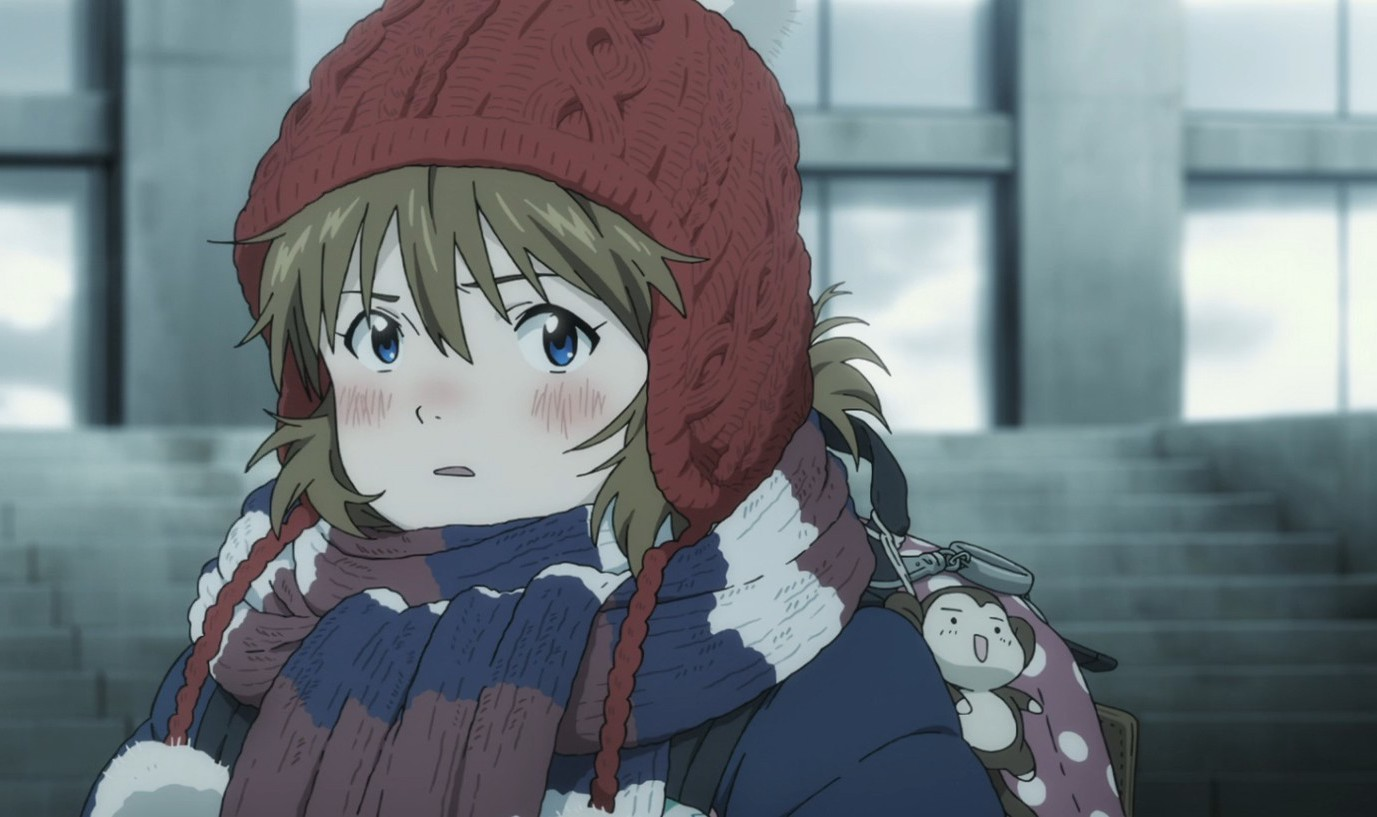
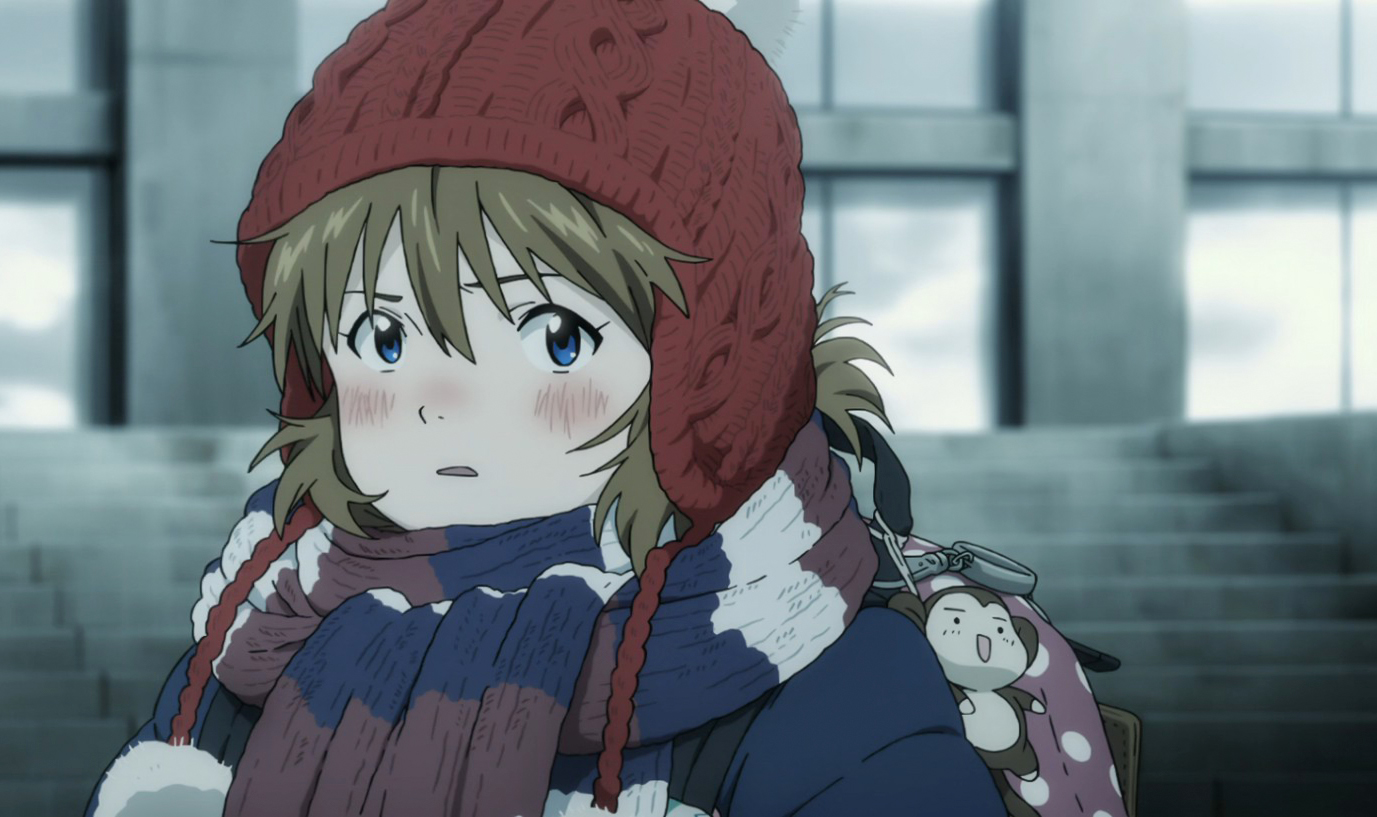
kiss 选项

diff --git a/html/louvre.js b/html/louvre.js
@@ -291,79 +291,83 @@ const louvre = (img, config, callback) => {
 			pixelData[i+3 ] = 255
 		}
 	}
-	const hStart = 30;
-	const hEnd = -184;
 
-	const be = bezier(0.57, 0.01, 0.43, 0.99);
-	const s = config.s/100;
+	if(config.kuma){
 
-
-	const gradient = ctx.createLinearGradient(0,0, _width,_height);
-
-	// Add three color stops
-	gradient.addColorStop(0, '#fbba30');
-	gradient.addColorStop(0.4, '#fc7235');
-	gradient.addColorStop(.6, '#fc354e');
-	gradient.addColorStop(0.7, '#cf36df');
-	gradient.addColorStop(.8, '#37b5d9');
-	gradient.addColorStop(1, '#3eb6da');
-
-	// Set the fill style and draw a rectangle
-	ctx.fillStyle = gradient;
-	ctx.fillRect(0, 0, _width, _height);
-	let gradientPixel = ctx.getImageData(0, 0, _width, _height);
+		const hStart = 30;
+		const hEnd = -184;
 	
-	for (let i = 0; i < pixelData.length; i += 4) {
-		let y = pixelData[i];
-		let p = Math.floor(i / 4);
-
-		let _h = Math.floor(p/_width);
-		let _w = p % _width;
-
-		/*
+		const be = bezier(0.57, 0.01, 0.43, 0.99);
+		const s = config.s/100;
+	
+	
+		const gradient = ctx.createLinearGradient(0,0, _width,_height);
+	
+		// Add three color stops
+		gradient.addColorStop(0, '#fbba30');
+		gradient.addColorStop(0.4, '#fc7235');
+		gradient.addColorStop(.6, '#fc354e');
+		gradient.addColorStop(0.7, '#cf36df');
+		gradient.addColorStop(.8, '#37b5d9');
+		gradient.addColorStop(1, '#3eb6da');
+	
+		// Set the fill style and draw a rectangle
+		ctx.fillStyle = gradient;
+		ctx.fillRect(0, 0, _width, _height);
+		let gradientPixel = ctx.getImageData(0, 0, _width, _height);
 		
-		// const 
-		// hScale = hScale * hScale;
-
-		let hScale = (_h + _w)/(_width + _height);
-
-		hScale = hScale * hScale;
-		hScale = be(hScale);
-
-		// let h = Math.floor((hStart + (hScale) * (hEnd - hStart)));
-		let [h] = rgb2hsl([
-			gradientPixel.data[i + 0],
-			gradientPixel.data[i + 1],
-			gradientPixel.data[i + 2],
-		]);
-		const l = y/255;
-		const rgb = hsl2rgb([h, s, l * (1 - config.l/100) + (config.l/100)]);
-
-		if(i%5677===0){
-			// console.log(h,y,l,l * (config.l/100) + (1 - config.l/100))
-			// console.log((_h + _w)/(_width + _height),hScale)
+		for (let i = 0; i < pixelData.length; i += 4) {
+			let y = pixelData[i];
+			let p = Math.floor(i / 4);
+	
+			let _h = Math.floor(p/_width);
+			let _w = p % _width;
+	
+			/*
+			
+			// const 
+			// hScale = hScale * hScale;
+	
+			let hScale = (_h + _w)/(_width + _height);
+	
+			hScale = hScale * hScale;
+			hScale = be(hScale);
+	
+			// let h = Math.floor((hStart + (hScale) * (hEnd - hStart)));
+			let [h] = rgb2hsl([
+				gradientPixel.data[i + 0],
+				gradientPixel.data[i + 1],
+				gradientPixel.data[i + 2],
+			]);
+			const l = y/255;
+			const rgb = hsl2rgb([h, s, l * (1 - config.l/100) + (config.l/100)]);
+	
+			if(i%5677===0){
+				// console.log(h,y,l,l * (config.l/100) + (1 - config.l/100))
+				// console.log((_h + _w)/(_width + _height),hScale)
+			}
+	
+			pixelData[i+0 ] = rgb[0];
+			pixelData[i+1 ] = rgb[1];
+			pixelData[i+2 ] = rgb[2];
+			pixelData[i+3 ] = 255;
+			*/
+	
+			pixelData[i+0 ] = gradientPixel.data[i + 0];
+			pixelData[i+1 ] = gradientPixel.data[i + 1];
+			pixelData[i+2 ] = gradientPixel.data[i + 2];
+			
+			y = 255 - y;
+			if(config.black){
+				y = Math.max(
+					y,
+					blackPixel.data[i]
+				);
+			}
+			pixelData[i+3 ] = y
 		}
-
-		pixelData[i+0 ] = rgb[0];
-		pixelData[i+1 ] = rgb[1];
-		pixelData[i+2 ] = rgb[2];
-		pixelData[i+3 ] = 255;
-		*/
-
-		pixelData[i+0 ] = gradientPixel.data[i + 0];
-		pixelData[i+1 ] = gradientPixel.data[i + 1];
-		pixelData[i+2 ] = gradientPixel.data[i + 2];
-		
-		y = 255 - y;
-		if(config.black){
-			y = Math.max(
-				y,
-				blackPixel.data[i]
-			);
-		}
-		pixelData[i+3 ] = y
+	
 	}
-
 
 	if(config.hue){
 		for (let i = 0; i < pixelData.length; i += 4) {

diff --git a/html/index.html b/html/index.html
@@ -2,7 +2,7 @@
 <html>
 <head>
 <meta charset="UTF-8">
-<title>One Last Image - One Last Kiss 风格封面生成器</title>
+<title>One Last Image - One Last Kiss 风格 图片转线稿 生成器</title>
 <style>
 canvas{
 	background:#FFF;
@@ -17,7 +17,7 @@ img,canvas{
 
 <div class="app">
 	<div class="ctrl-box">
-		<img src="images/asuka.jpg" @load="setImageAndDraw">
+		<img src="images/asuka-8.jpg" @load="setImageAndDraw">
 
 
 		<!-- <div class="label-box" style="padding:4px 0;">
@@ -61,6 +61,9 @@ img,canvas{
 			</label>
 			<label>
 				<input type="checkbox" v-model="style.cover">方形封面
+			</label>
+			<label>
+				<input type="checkbox" v-model="style.kuma">Kiss
 			</label>
 		</div>
 

diff --git a/html/document.js b/html/document.js
@@ -144,13 +144,14 @@ const Convolutes = {
 }
 
 const style = {
-	zoom:1.3,
+	zoom:1,
 	light:0,
 	blackLimit: 80,
 	blackLight: 40,
 	s:80,
 	l:50,
 	black:true,
+	kuma:true,
 	convoluteName: '一般',
 	convolute1Diff: true,
 	convoluteName2: null,
